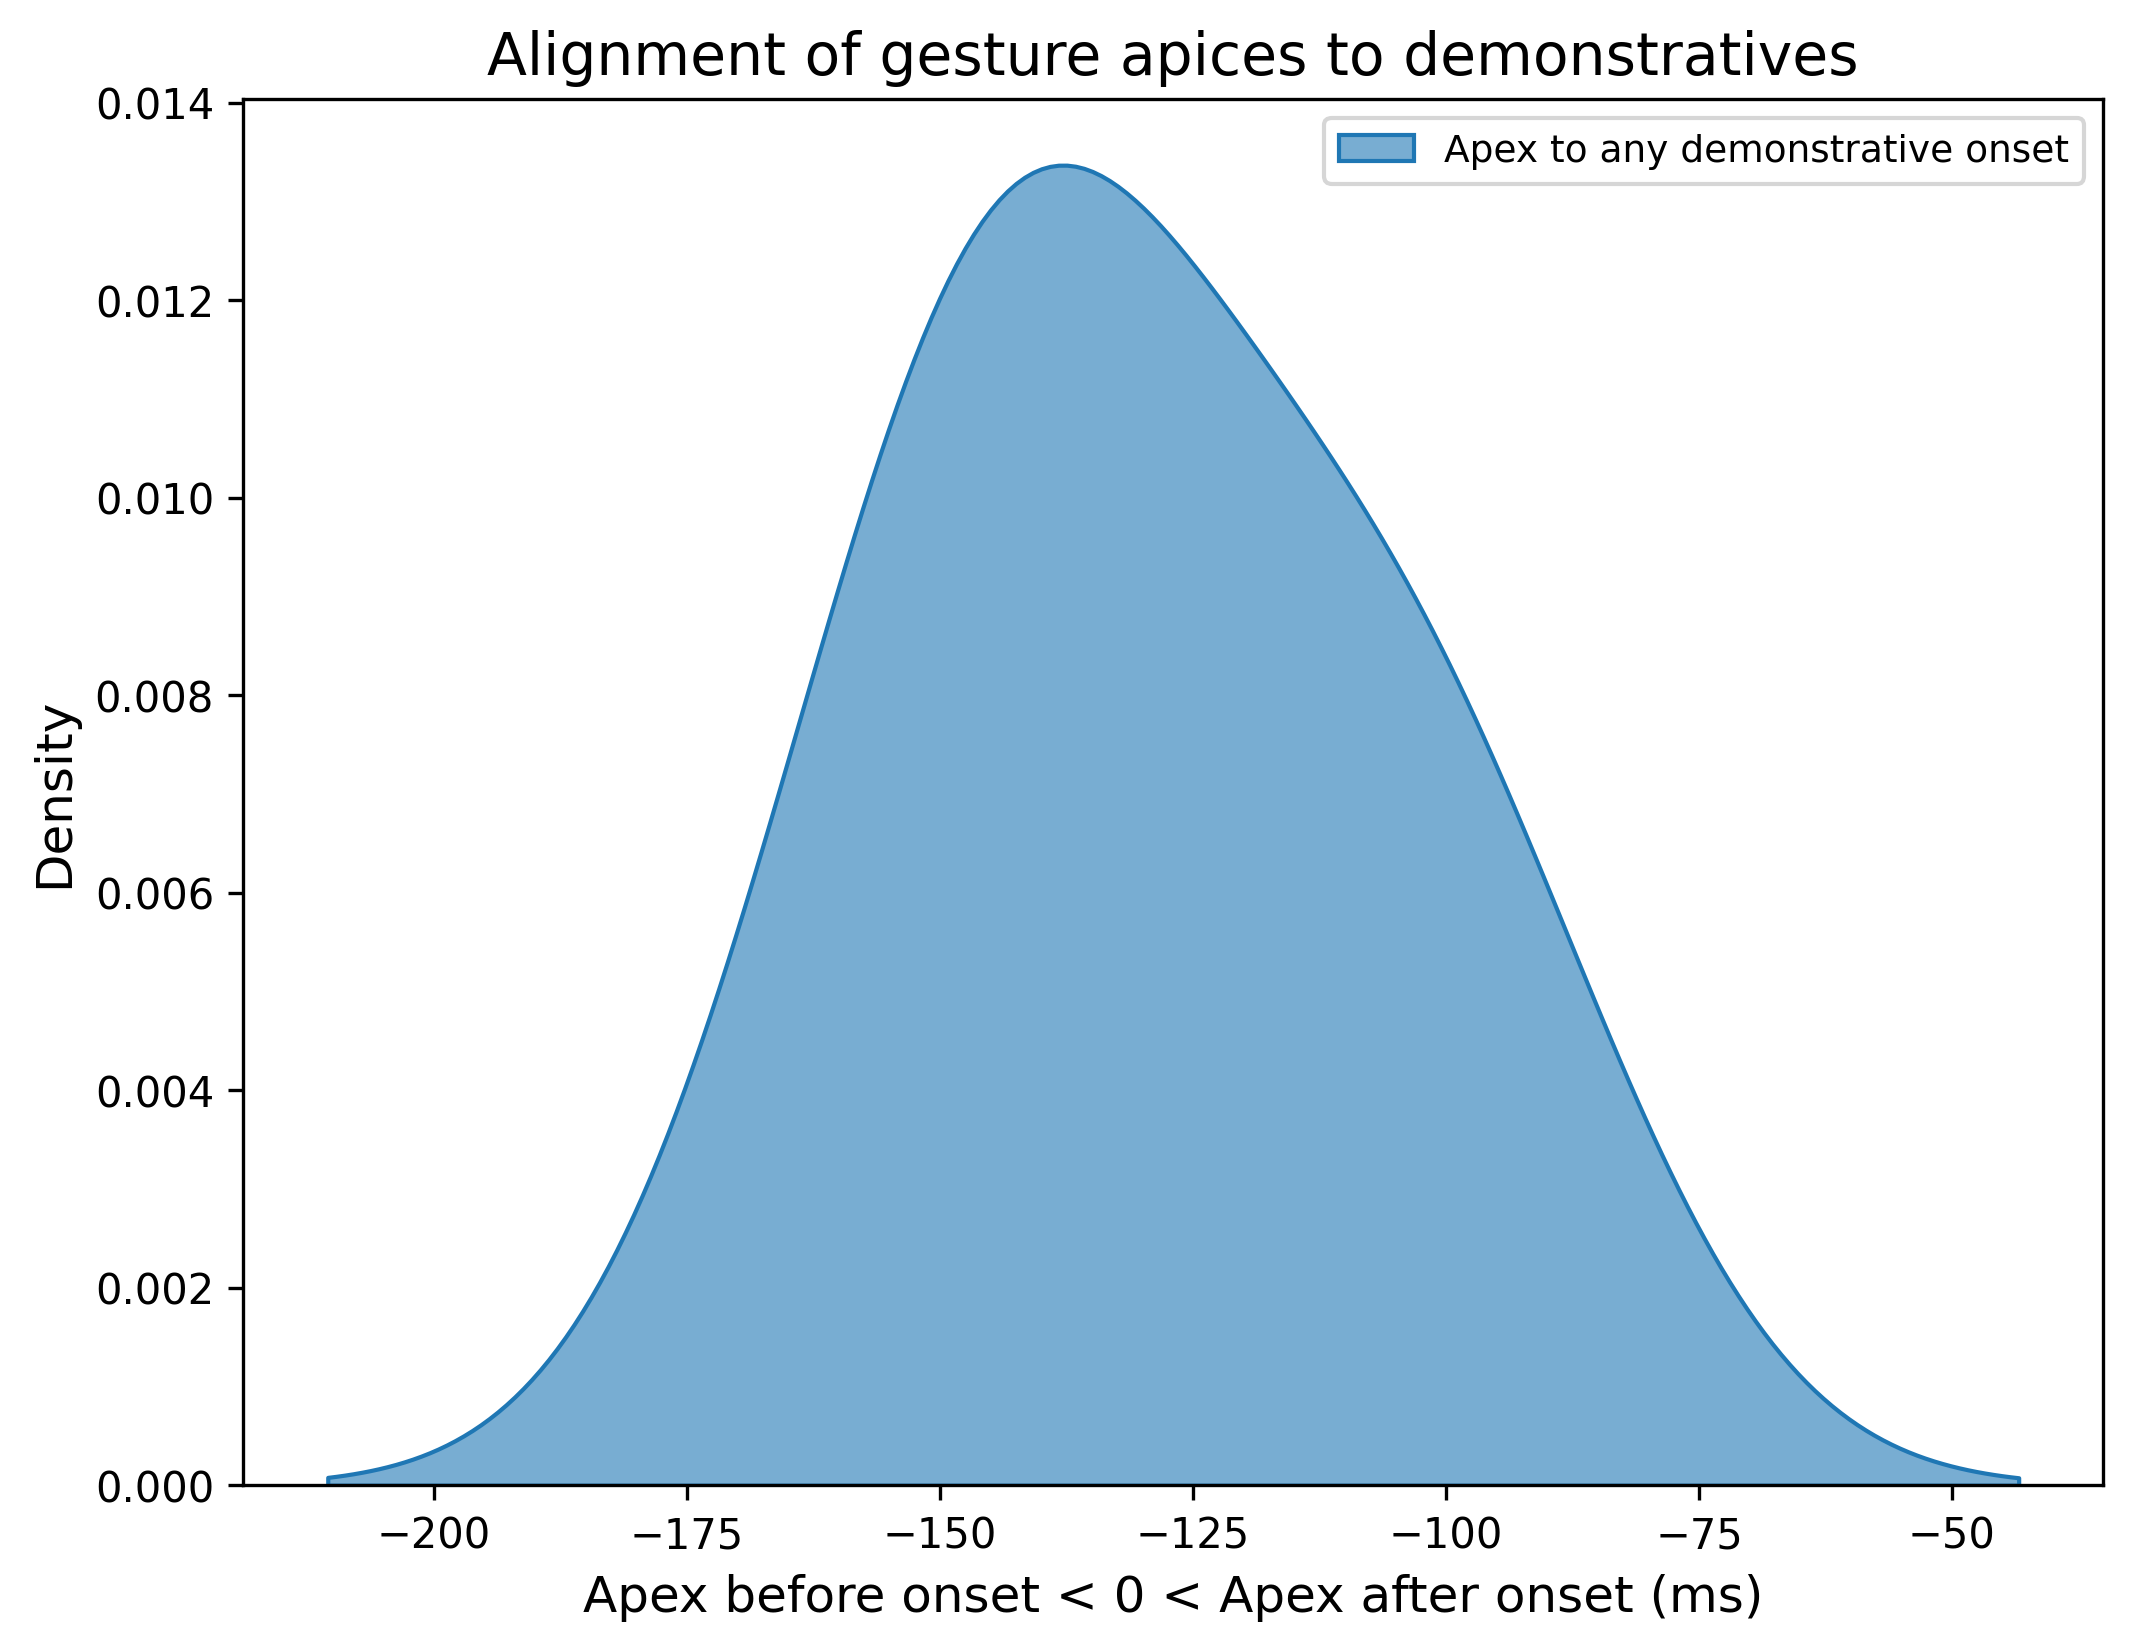
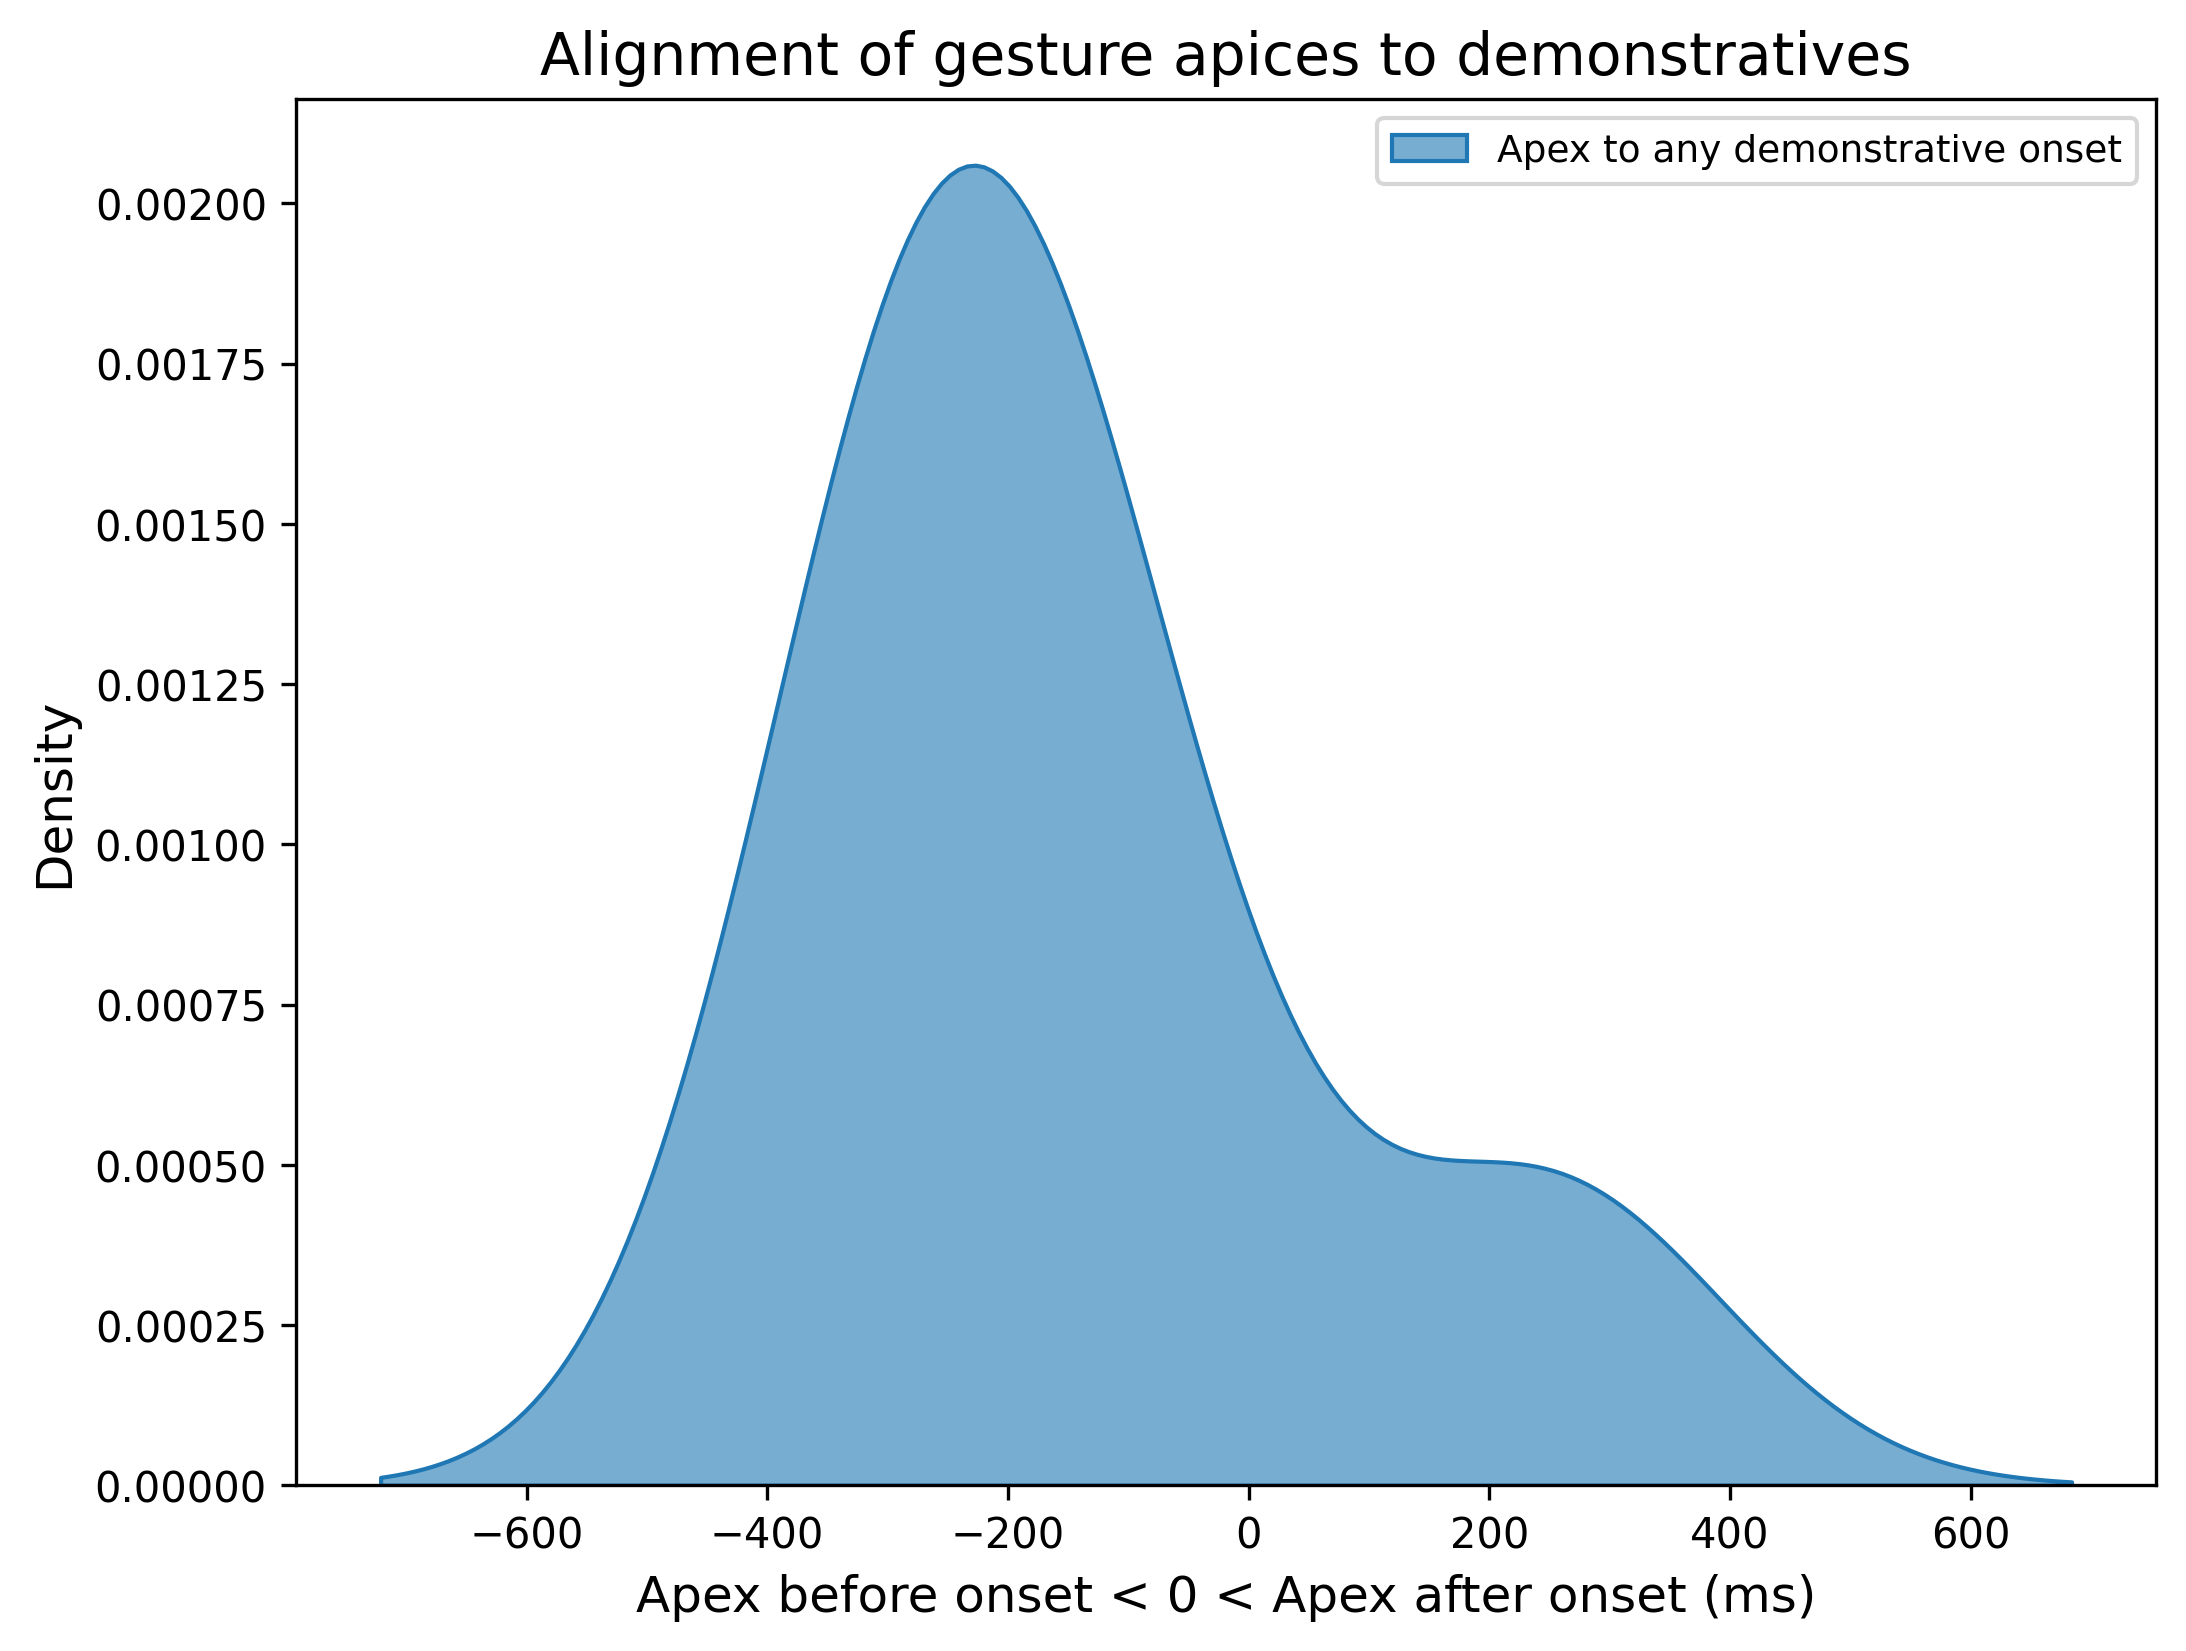
Search for gestures adjacent to all words and find nearest apex to each, then filter out non-demonstratives

diff --git a/align_demonstratives_and_gestures.py b/align_demonstratives_and_gestures.py
@@ -46,6 +46,7 @@ demonstrative_timings = get_word_timings_from_asr_results(
     asr_results,
     filter_func=is_demonstrative,
 )
+all_word_timings = asr_results[ASR_TIMED_RESULTS_KEY]
 
 # Create subtitle file with demonstratives only
 # Add subtitles to video for demonstratives only
@@ -60,17 +61,16 @@ write_srt(full_subtitles, FULL_SUBTITLES_FILE_PATH)
 add_subtitles_to_video(VIDEO_PATH, FULL_SUBTITLES_FILE_PATH, subtitle_language="de", soft_subtitle=True)
 
 
-# Detect hand gestures within range of demonstratives and find apices of each
+# Detect hand gestures within range of individual words and find apices of each
 max_seconds_bounds = 0.5
 gesture_detector = GestureDetector(VIDEO_PATH)
 gesture_detector.dump_gesture_events(GESTURES_JSON)
 logger.info(f"Wrote full gesture json to {GESTURES_JSON}")
 gesture_events = gesture_detector.search_for_gestures_near_specific_words(
-    word_timings=demonstrative_timings,
+    word_timings=all_word_timings,
     max_window=max_seconds_bounds,
     combine_overlapping=True,
 )
-logger.info(f"Found {len(gesture_events)} gesture events within bounds of demonstratives")
 # Get averaged timestamp of each gesture's apex candidates
 gesture_apices = detect_gesture_apices(gesture_events, average=True)
 
@@ -83,12 +83,13 @@ extract_frames_by_timestamp(
 
 # Find nearest gesture apex to each word of interest
 nearest_gestures_to_demonstratives = find_nearest_gesture_to_words(
-    demonstrative_timings,
+    all_word_timings,
     gesture_apices,
     key=TOKEN_ONSET_KEY,
     max_offset_from_word=0.75,
+    filter_func=is_demonstrative,
 )
-# Assemble aligned demonstratives and gestures into dataframe
+# Assemble aligned words and gestures into dataframe
 aligned_word_gesture_df = pd.DataFrame(nearest_gestures_to_demonstratives)
 # Write to TSV file
 aligned_word_gesture_df.to_csv(

diff --git a/extract_gesture.py b/extract_gesture.py
@@ -3,6 +3,7 @@ import logging
 import os
 from collections import defaultdict
 from copy import deepcopy
+from typing import Callable
 
 import cv2
 import mediapipe as mp
@@ -108,10 +109,13 @@ def find_nearest_gesture_to_words(word_timings: list,
                                   gesture_apices: dict,
                                   key=TOKEN_ONSET_KEY,
                                   max_offset_from_word: float | None = None,
+                                  filter_func: Callable | None = None,
                                   ) -> list:
     """Find nearest gesture (by apex timestamp) to each word's onset."""
     nearest_gestures = []
     for entry in word_timings:
+        if filter_func and not filter_func(entry):
+            continue
         entry_copy = entry.copy()
         word_time = entry_copy[key]
         nearest_gesture = min(gesture_apices.keys(), key=lambda x: abs(word_time - gesture_apices[x]))
